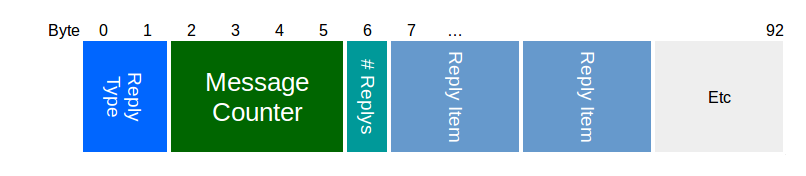
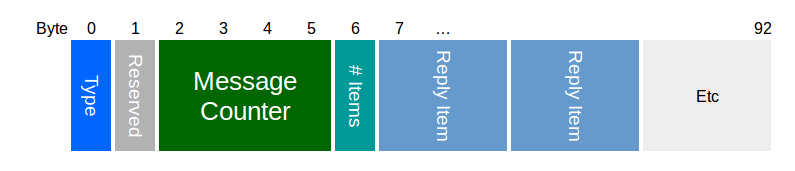
Reply message only need 1 byte for type.

diff --git a/include/protocol/cs_MeshMessageTypes.h b/include/protocol/cs_MeshMessageTypes.h
@@ -500,7 +500,7 @@ inline void get_command_msg_payload(command_message_t* message, uint16_t message
  * REPLY
  ********************************************************************/
 
-#define REPLY_HEADER_SIZE (sizeof(uint16_t) + sizeof(uint32_t) + sizeof(uint8_t))
+#define REPLY_HEADER_SIZE (sizeof(uint8_t) + sizeof(uint8_t) + sizeof(uint32_t) + sizeof(uint8_t))
 
 //struct __attribute__((__packed__)) reply_item_t {
 //	id_type_t id;
@@ -546,9 +546,10 @@ struct __attribute__((__packed__)) state_reply_item_t {
 /** Reply for any type of message.
  */
 struct __attribute__((__packed__)) reply_message_t {
-	uint16_t messageType;
+	uint8_t messageType;
+	uint8_t reserved;
 	uint32_t messageCounter;
-	uint8_t numOfReplys;
+	uint8_t itemCount;
 	union {
 //		reply_item_t list[];
 		status_reply_item_t statusList[MAX_STATUS_REPLY_ITEMS];
@@ -565,11 +566,11 @@ inline void cear_reply_msg(reply_message_t* msg) {
 inline bool is_valid_reply_msg(reply_message_t* msg) {
 	switch (msg->messageType) {
 	case STATUS_REPLY:
-		return (msg->numOfReplys <= MAX_STATUS_REPLY_ITEMS);
+		return (msg->itemCount <= MAX_STATUS_REPLY_ITEMS);
 	case CONFIG_REPLY:
-		return (msg->numOfReplys <= MAX_CONFIG_REPLY_ITEMS);
+		return (msg->itemCount <= MAX_CONFIG_REPLY_ITEMS);
 	case STATE_REPLY:
-		return (msg->numOfReplys <= MAX_STATE_REPLY_ITEMS);
+		return (msg->itemCount <= MAX_STATE_REPLY_ITEMS);
 	default:
 		return false;
 	}
@@ -593,17 +594,17 @@ inline bool is_valid_reply_msg(reply_message_t* msg, uint16_t length) {
 
 	switch (msg->messageType) {
 	case STATUS_REPLY:
-		if (length < REPLY_HEADER_SIZE + msg->numOfReplys * sizeof(status_reply_item_t)) {
+		if (length < REPLY_HEADER_SIZE + msg->itemCount * sizeof(status_reply_item_t)) {
 			return false;
 		}
 		break;
 	case CONFIG_REPLY:
-		if (length < REPLY_HEADER_SIZE + msg->numOfReplys * sizeof(config_reply_item_t)) {
+		if (length < REPLY_HEADER_SIZE + msg->itemCount * sizeof(config_reply_item_t)) {
 			return false;
 		}
 		break;
 	case STATE_REPLY:
-		if (length < REPLY_HEADER_SIZE + msg->numOfReplys * sizeof(state_reply_item_t)) {
+		if (length < REPLY_HEADER_SIZE + msg->itemCount * sizeof(state_reply_item_t)) {
 			return false;
 		}
 		break;
@@ -614,10 +615,10 @@ inline bool is_valid_reply_msg(reply_message_t* msg, uint16_t length) {
 }
 
 inline bool push_status_reply_item(reply_message_t* message, status_reply_item_t* item) {
-	if (message->numOfReplys == MAX_STATUS_REPLY_ITEMS) {
+	if (message->itemCount == MAX_STATUS_REPLY_ITEMS) {
 		return false;
 	} else {
-		memcpy(&message->statusList[message->numOfReplys++], item, sizeof(status_reply_item_t));
+		memcpy(&message->statusList[message->itemCount++], item, sizeof(status_reply_item_t));
 		return true;
 	}
 }

diff --git a/src/mesh/cs_MeshControl.cpp b/src/mesh/cs_MeshControl.cpp
@@ -255,7 +255,7 @@ ERR_CODE MeshControl::handleCommandReplyMessage(reply_message_t* msg, uint16_t l
 		LOGi("Received Status Reply for Message: %d", msg->messageCounter);
 
 #if defined(PRINT_DEBUG) and defined(PRINT_VERBOSE_COMMAND_REPLY)
-		for (int i = 0; i < msg->numOfReplys; ++i) {
+		for (int i = 0; i < msg->itemCount; ++i) {
 			LOGi("  ID %d: %d", msg->statusList[i].id, msg->statusList[i].status);
 		}
 #endif
@@ -265,7 +265,7 @@ ERR_CODE MeshControl::handleCommandReplyMessage(reply_message_t* msg, uint16_t l
 		LOGi("Received Config Reply for Message: %d", msg->messageCounter);
 
 #if defined(PRINT_DEBUG) and defined(PRINT_VERBOSE_COMMAND_REPLY)
-		for (int i = 0; i < msg->numOfReplys; ++i) {
+		for (int i = 0; i < msg->itemCount; ++i) {
 			config_reply_item_t* item = &msg->configList[i];
 			log(SERIAL_INFO, "  ID %d: Type: %d, Data: 0x", item->id, item->data.type);
 			BLEutil::printArray(item->data.payload, item->data.length);
@@ -277,7 +277,7 @@ ERR_CODE MeshControl::handleCommandReplyMessage(reply_message_t* msg, uint16_t l
 		LOGi("Received State Reply for Message: %d", msg->messageCounter);
 
 #if defined(PRINT_DEBUG) and defined(PRINT_VERBOSE_COMMAND_REPLY)
-		for (int i = 0; i < msg->numOfReplys; ++i) {
+		for (int i = 0; i < msg->itemCount; ++i) {
 			state_reply_item_t* item = &msg->stateList[i];
 			log(SERIAL_INFO, "  ID %d: Type: %d, Data: 0x", item->id, item->data.type);
 			BLEutil::printArray(item->data.payload, item->data.length);
@@ -776,7 +776,7 @@ void MeshControl::sendConfigReplyMessage(uint32_t messageCounter, config_reply_i
 	reply_message_t message = {};
 	message.messageType = CONFIG_REPLY;
 	message.messageCounter = messageCounter;
-	message.numOfReplys = 1;
+	message.itemCount = 1;
 	memcpy(&message.configList[0], configReply, sizeof(config_reply_item_t));
 
 #if defined(PRINT_DEBUG) &&  defined(PRINT_VERBOSE_COMMAND_REPLY)
@@ -798,7 +798,7 @@ void MeshControl::sendStateReplyMessage(uint32_t messageCounter, state_reply_ite
 	reply_message_t message = {};
 	message.messageType = STATE_REPLY;
 	message.messageCounter = messageCounter;
-	message.numOfReplys = 1;
+	message.itemCount = 1;
 	memcpy(&message.stateList[0], stateReply, sizeof(state_reply_item_t));
 
 #if defined(PRINT_DEBUG) &&  defined(PRINT_VERBOSE_COMMAND_REPLY)

diff --git a/src/mesh/cs_Mesh.cpp b/src/mesh/cs_Mesh.cpp
@@ -420,13 +420,13 @@ void Mesh::resolveConflict(mesh_handle_t handle, encrypted_mesh_message_t* p_old
 
 				//! Loop over all items in new message.
 				status_reply_item_t* srcItem;
-				for (int i = 0; i < replyMessageNew->numOfReplys; ++i) {
+				for (int i = 0; i < replyMessageNew->itemCount; ++i) {
 					srcItem = &replyMessageNew->statusList[i];
 
 					//! Check if item is in old message.
 					status_reply_item_t* destItem;
 					bool found = false;
-					for (int j = 0; j < replyMessageOld->numOfReplys; ++j) {
+					for (int j = 0; j < replyMessageOld->itemCount; ++j) {
 						destItem = &replyMessageOld->statusList[j];
 						if (destItem->id == srcItem->id) {
 							found = true;

diff --git a/docs/PROTOCOL.md b/docs/PROTOCOL.md
@@ -904,7 +904,8 @@ int 8 | TX power | 1 | iBeacon signal strength at 1 meter.
 
 Type | Name | Length | Description
 --- | --- | --- | ---
-uint 16 | [Reply type](#mesh_reply_types) | 2 | Type of reply, see table below.
+uint 8 | [Reply type](#mesh_reply_types) | 1 | Type of reply, see table below.
+uint 8 | Reserved | 1 | Reserved for future use.
 uint 32 | Message counter | 4 | The message number of the command to which this reply belongs.
 uint 8 | Count | 1 | Number of items in the list.
 uint 8 | List | 85 | List of replies, the format is defined by the type of reply.
